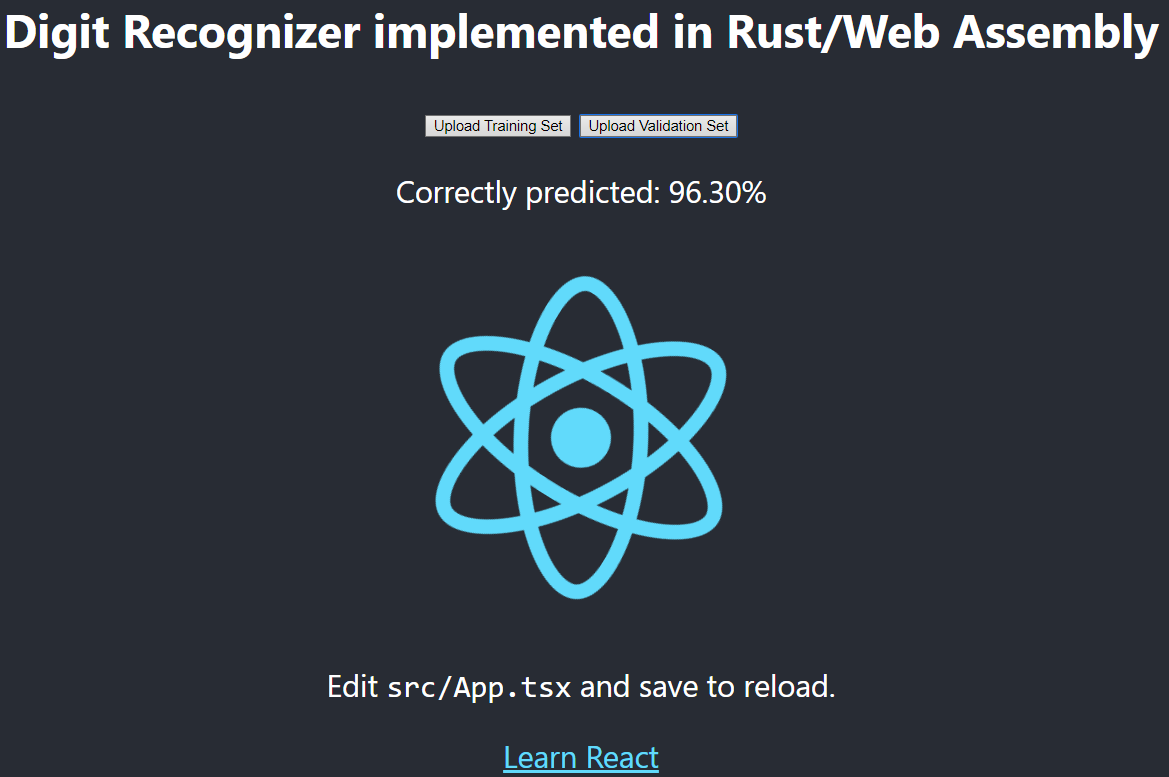
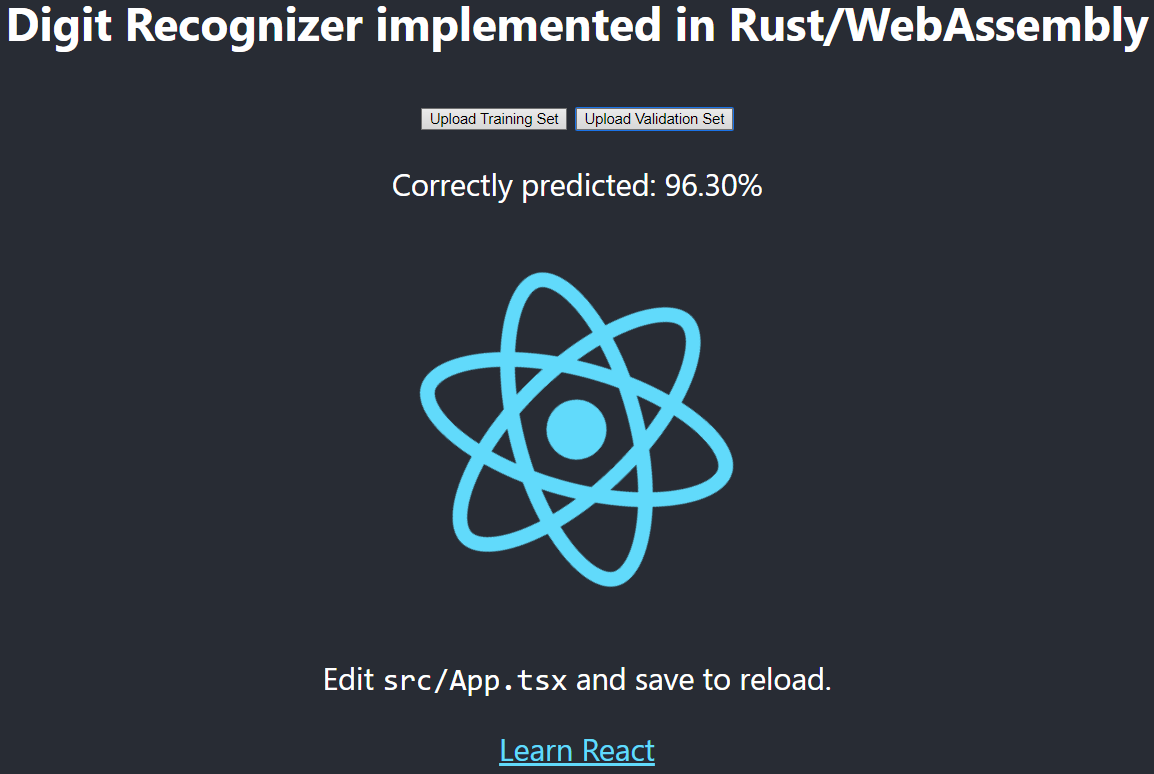
Update title and header.

diff --git a/src/App.tsx b/src/App.tsx
@@ -21,7 +21,7 @@ return (
     <div className="App">
       <header className="App-header">
         <article>
-          <h1>Digit Recognizer implemented in Rust/Web Assembly</h1>
+          <h1>Digit Recognizer implemented in Rust/WebAssembly</h1>
           <UploadButton name='Upload Training Set' stateChanger={setTrainingSet} />
           <span> </span>
           <UploadButton name='Upload Validation Set' stateChanger={setValidationSet} />

diff --git a/README.md b/README.md
@@ -1,4 +1,4 @@
-# React App running Digit Recognizer (Machine Learning) in Rust WebAssembly
+# React App running Digit Recognizer (Machine Learning) in Rust/WebAssembly
 
 Uploads training and validation data sets and then displays the percentage of digits that were correctly predicted. For machine learning technical details see the pure Rust [implementation]. In this new version the file input was moved out of the Rust and into the React UI.
 
